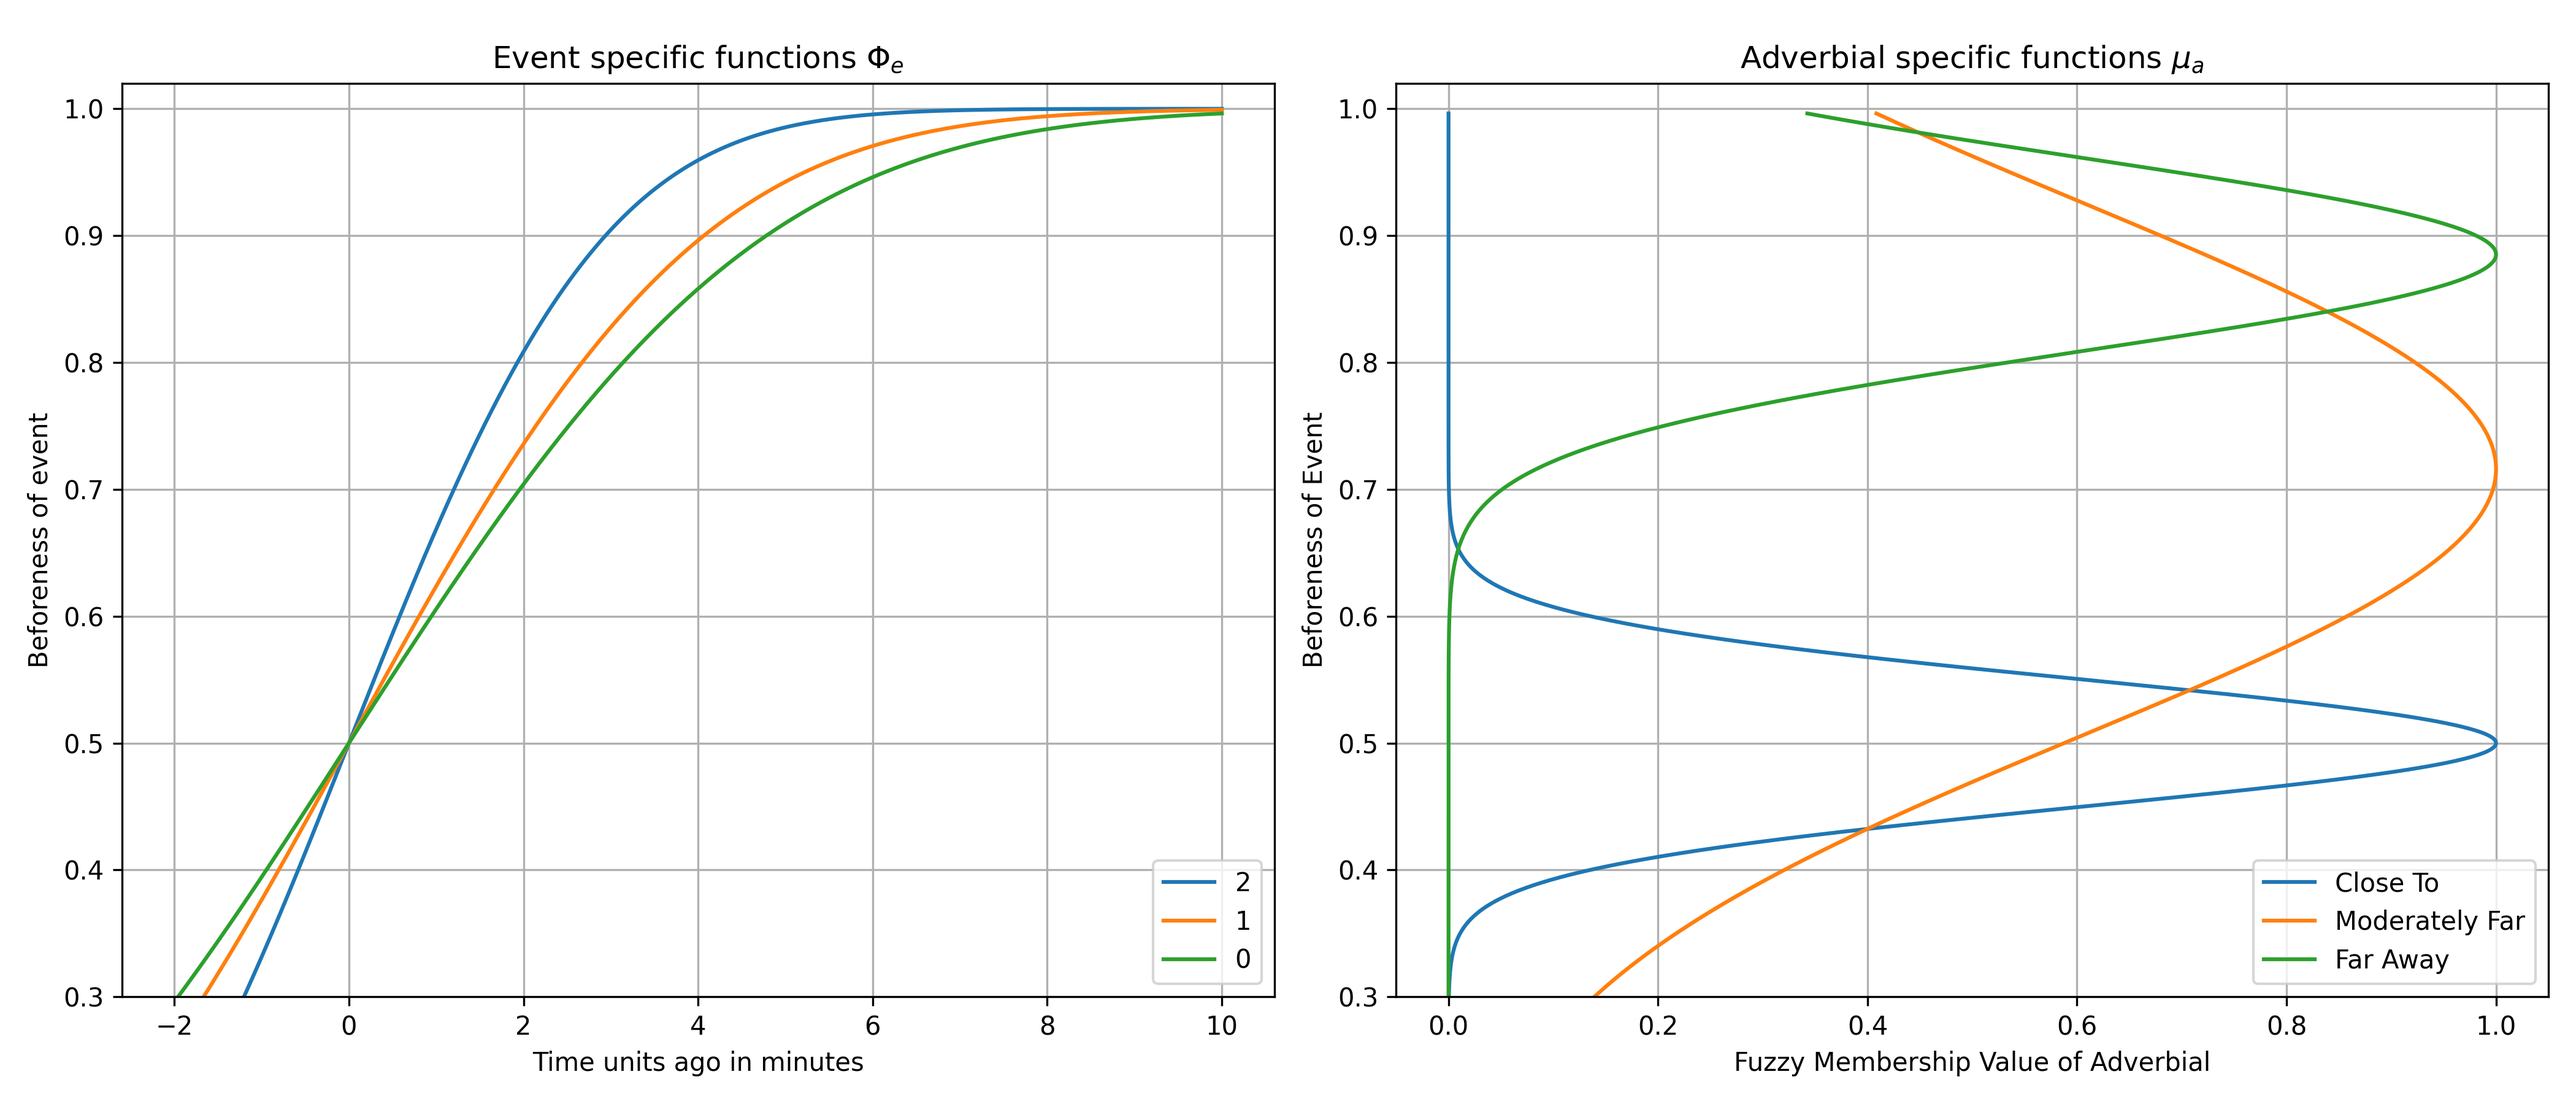
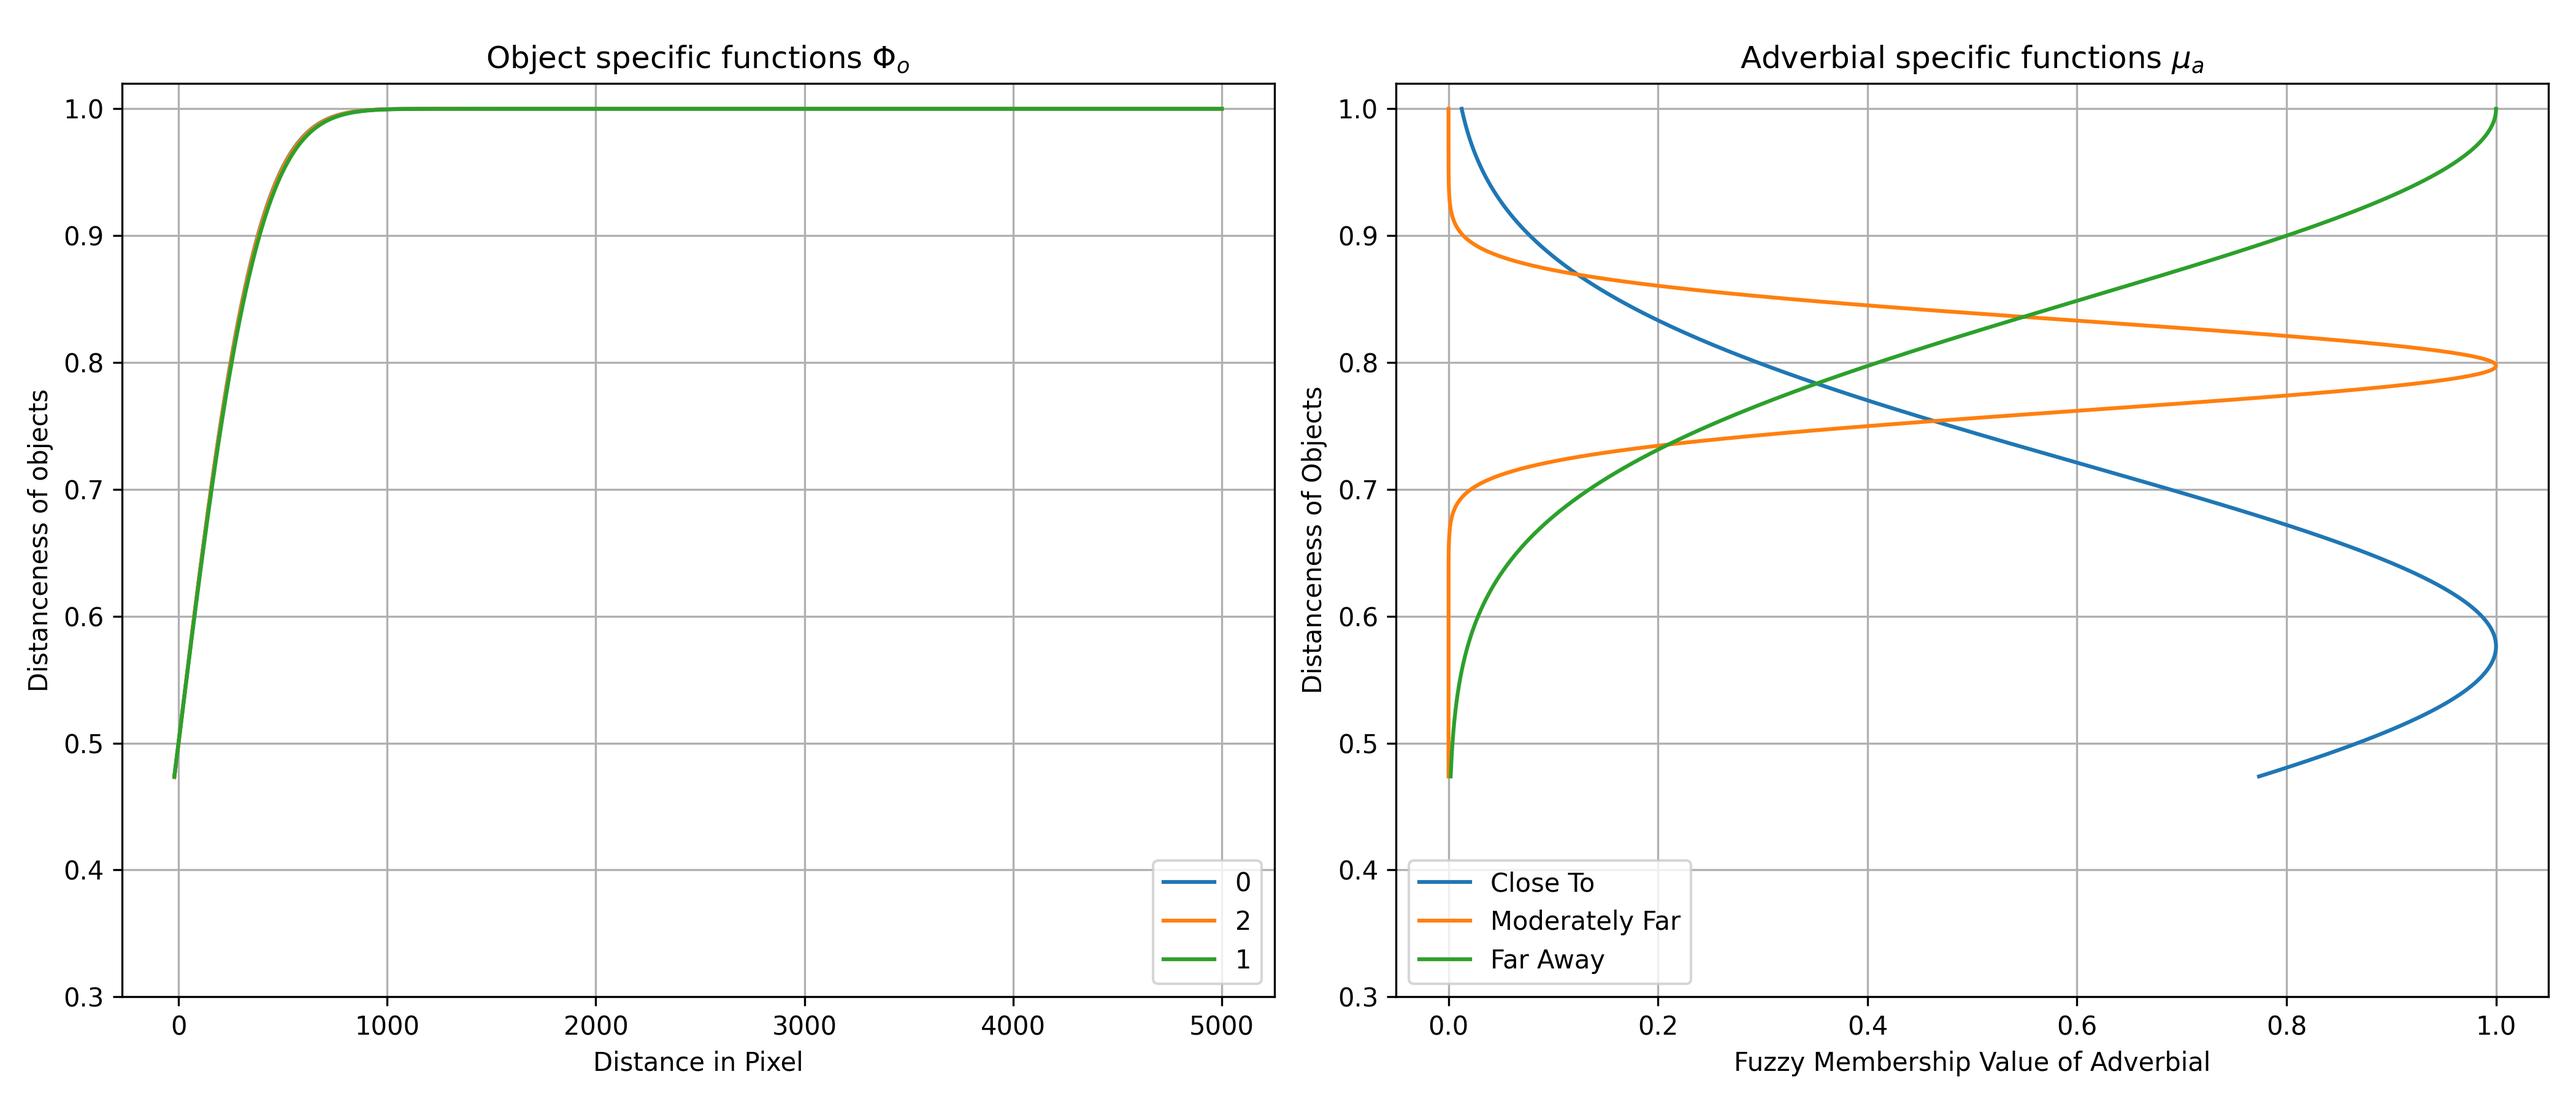
Fixed error in the fitting

diff --git a/src/plot.py b/src/plot.py
@@ -44,7 +44,7 @@ def _load_packed(path: Path = config.RESULTS_FILE_PATH/"event_adverbials.json") 
 
 def _initial_x_axis(values_vague_adverbial: dict) -> np.ndarray:
     # max_minutes = max(map(float, values_vague_adverbial["far away"].keys()))
-    return np.linspace(-2, 10, 400_000)
+    return np.linspace(-20, 5000, 400_000)
 
 def _select_main_event(packed: Dict[str, dict], candidates: List[str]) -> str:
     """Return the candidate event with the largest σ (first/maximum param).
@@ -146,9 +146,9 @@ def plot_all_persons_event_adverbials(
     # Left‑axis styling
     ax_left.set(
         ylim = Y_LIMS,
-        xlabel="Time units ago in minutes",
-        ylabel="Beforeness of event",
-        title="Event specific functions $\Phi_e$",
+        xlabel="Distance in Pixel",
+        ylabel="Distanceness of objects",
+        title="Object specific functions $\Phi_o$",
     )
     ax_left.grid(True)
     ax_left.legend(loc="lower right")
@@ -173,7 +173,7 @@ def plot_all_persons_event_adverbials(
     ax_right.set(
         ylim=Y_LIMS,
         xlabel="Fuzzy Membership Value of Adverbial",
-        ylabel="Beforeness of Event",
+        ylabel="Distanceness of Objects",
         title="Adverbial specific functions $\mu_a$",
     )
     ax_right.grid(True)

diff --git a/src/train.py b/src/train.py
@@ -34,13 +34,13 @@ adverbials_initial_means: Dict[str, float] = {
 
 # Standard deviation initial guesses for adverbials
 adverbials_initial_stds: Dict[str, float] = {
-    "close to": 0.05,
+    "close to": 0.1,
     "moderately far": 0.1,
-    "far away": 0.02,
+    "far away": 0.1,
 }
 
 # Bounds for the fitting (lower, upper)
-fitting_bounds_events = ([1e-6], [np.inf])
+fitting_bounds_events = ([10], [500])
 fitting_bounds_adverbials_mean = ([0.45], [1.0])
 fitting_bounds_adverbials_std = ([1e-6], [0.5])
 
@@ -204,7 +204,7 @@ def fit_event_adverbials(events_to_fit_naming: List[str]) -> dict:
             values_vagueAdverbial = json.load(fh)
 
         max_time_ago = max(map(float, values_vagueAdverbial["far away"].keys()))
-        initial_std_relation.append(max_time_ago / 5)
+        initial_std_relation.append(max_time_ago)
 
         # Re‑order vague adverbials to match *vagueAdverbials_naming_initialguessmeans*
         values_vagueAdverbial = {

diff --git a/main.py b/main.py
@@ -65,15 +65,15 @@ def plot_results(events, adverbial):
     print("Plotting results are saved under results/plots/... . "
           "The used FuzzyLLI configuration for the plotting is Random Forest")
     print("\nPlotting the FuzzyLLI Overview Diagram (Left each event, right the adverbials")
-    # plot_all_persons_event_adverbials(events)
-    plot_events_adverbials_fitted("0", "far away")
+    plot_all_persons_event_adverbials(events)
+    # plot_events_adverbials_fitted("0", "far away")
 
 
 def run_full_pipeline():
     """
     Preserve the previous default: train, evaluate, plot, and run a demo prediction.
     """
-    # train_models(DEFAULT_SPATIAL_SURVEY)  # Trains FuzzyLLI
+    train_models(DEFAULT_SPATIAL_SURVEY)  # Trains FuzzyLLI
     # evaluate_models_training_dataset(DEFAULT_EVENTS, DEFAULT_EVENTS_NL, generate_new_predictions=False)
     plot_results(DEFAULT_SPATIAL_SURVEY, "close to")  # Plots FuzzyLLI
 
